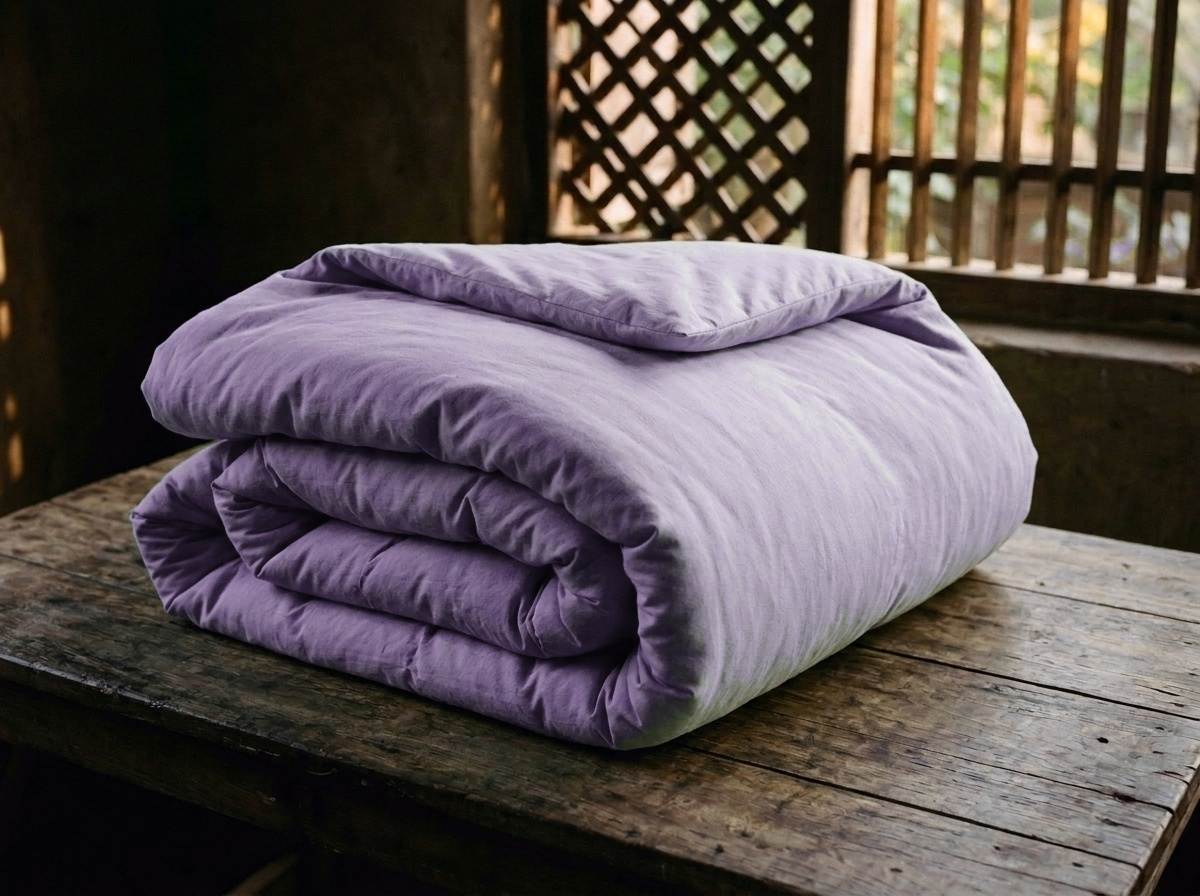
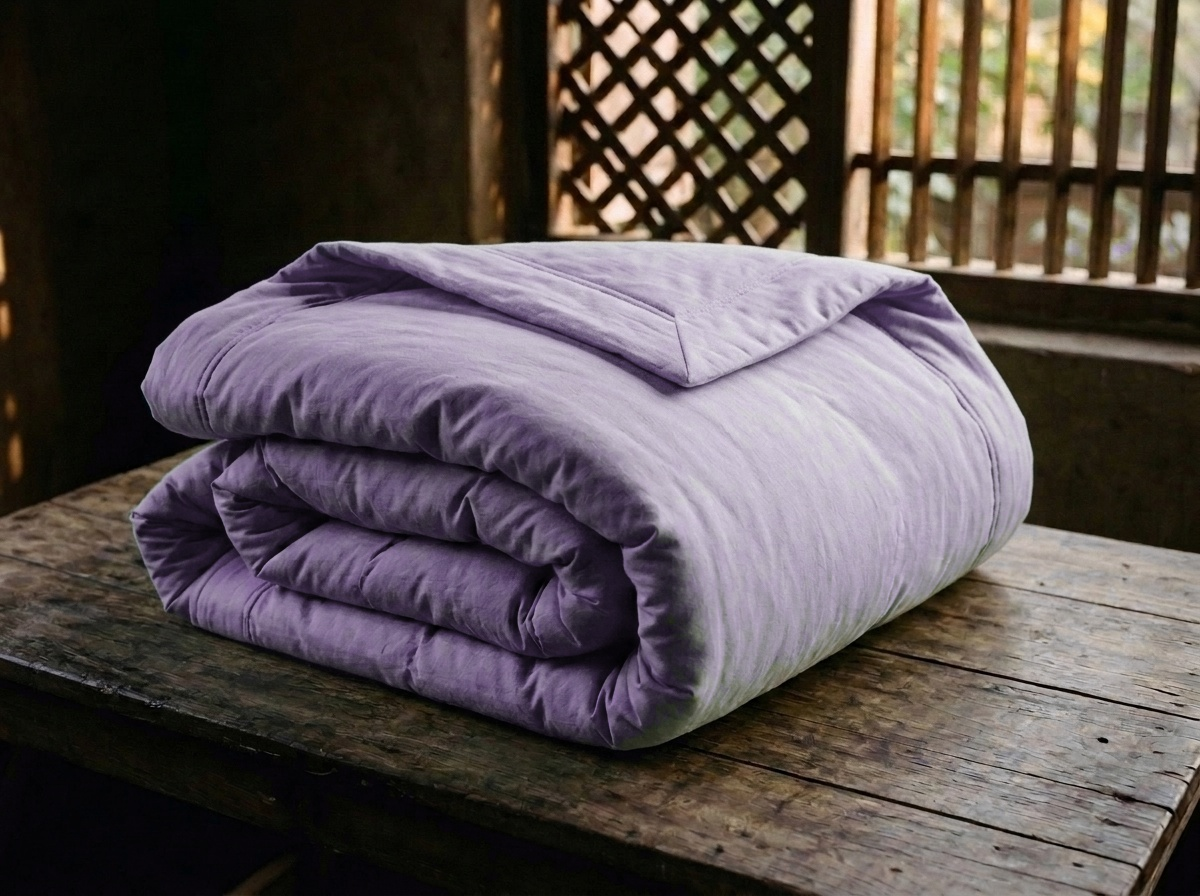
style(quilts): add tailored wide flat topstitched border edge to all 6 Adult Cloud Quilt colorways

Changed region(s): [[0.1233, 0.25, 0.8633, 0.5312], [0.1233, 0.5938, 0.3083, 0.75], [0.8017, 0.5625, 0.8325, 0.625]]

diff --git a/assets/js/main.js b/assets/js/main.js
@@ -438,7 +438,7 @@ function openProductModal(productId) {
 
   const isAdultQuilt = (product.id === 'quilt-heirloom-individual');
   const isInitialPurpleAdult = isAdultQuilt && initialColorway && initialColorway.id === 'lavender';
-  const initialModalImg = isInitialPurpleAdult ? 'assets/images/adult-quilt-solid-lavender.jpg?v=1' : product.image;
+  const initialModalImg = isInitialPurpleAdult ? 'assets/images/adult-quilt-solid-lavender.jpg?v=2' : product.image;
 
   // Purple slow-mo video & solid lavender photos ONLY appear when Pastel Lavender is selected on the Adult Quilt (no clouds!)
   const adultGalleryHTML = isAdultQuilt ? `
@@ -450,8 +450,8 @@ function openProductModal(productId) {
         </span>
         <span class="absolute inset-x-0 bottom-0 bg-black/75 text-[9px] font-mono text-brand-gold text-center py-0.5 uppercase">Slow-Mo</span>
       </button>
-      <button type="button" onclick="setModalMedia('photo', 'assets/images/adult-quilt-solid-lavender.jpg?v=1', this)" class="modal-media-thumb relative rounded-xl overflow-hidden border border-white/15 hover:border-brand-gold/60 h-16 sm:h-20 bg-black transition">
-        <img src="assets/images/adult-quilt-solid-lavender.jpg?v=1" alt="Solid pastel lavender adult quilt folded" class="w-full h-full object-cover">
+      <button type="button" onclick="setModalMedia('photo', 'assets/images/adult-quilt-solid-lavender.jpg?v=2', this)" class="modal-media-thumb relative rounded-xl overflow-hidden border border-white/15 hover:border-brand-gold/60 h-16 sm:h-20 bg-black transition">
+        <img src="assets/images/adult-quilt-solid-lavender.jpg?v=2" alt="Solid pastel lavender adult quilt folded" class="w-full h-full object-cover">
         <span class="absolute inset-x-0 bottom-0 bg-black/75 text-[9px] font-mono text-brand-cream text-center py-0.5 uppercase">Folded</span>
       </button>
       <button type="button" onclick="setModalMedia('photo', 'assets/images/adult-quilt-lavender-rolled.jpg?v=1', this)" class="modal-media-thumb relative rounded-xl overflow-hidden border border-white/15 hover:border-brand-gold/60 h-16 sm:h-20 bg-black transition">
@@ -613,7 +613,7 @@ function selectModalColorway(productId, colorwayId) {
   const cwName = (isDe && cw.name_de) ? cw.name_de : cw.name;
   const cwMotif = (isDe && cw.motif_de) ? cw.motif_de : cw.motif;
 
-  product.image = `${cw.image}?v=1`;
+  product.image = `${cw.image}?v=2`;
   product.badge = isThrow ? `${cw.name} • ${cw.motif} Print` : `${cw.name} • Solid Quilt`;
   if (isDe) {
     product.badge_de = isThrow ? `${cwName} • ${cwMotif}-Druck` : `${cwName} • Steppdecke`;

diff --git a/assets/js/data.js b/assets/js/data.js
@@ -351,7 +351,7 @@ const PRODUCTS = [
     badgeType: "featured",
     rating: 5.0,
     reviewsCount: 21,
-    image: "assets/images/adult-quilt-solid-mint.jpg?v=1",
+    image: "assets/images/adult-quilt-solid-mint.jpg?v=2",
     colorways: ADULT_QUILT_COLORWAYS,
     description: "Master solid pastel adult cloud quilt (140 × 222 cm) filled with 1.4kg of 100% natural Ilavam Panju (silk cotton harvested from Tamizhnad) and encased in an ultra-soft, brushed twill weave with organic cotton yarns, naturally dyed in calming solid pastel (available in all 6 pastel shades: Pastel Misty Blue-Grey, Pastel Lavender, Pastel Blush Pink, Pastel Mint Green, Pastel Peach, and Pastel Butter Yellow — our quilts are 100% solid pastel, completely unprinted). While the handcrafted quilt itself is not separately certified, the organic cotton fabric it is made from is GOTS and OEKO-TEX Standard 100 certified. Finished with 100% eco-friendly plastic-free labels and a handcrafted tote carry bag.",
     ingredients: "Natural Ilavam Panju (1.4kg Silk Cotton harvested from Tamizhnad) Filling + Handcrafted with Twill Weave using Naturally Dyed Organic Cotton Yarns, GOTS & OEKO-TEX Certified Organic Cotton Fabric.",

diff --git a/wholesale.html b/wholesale.html
@@ -832,9 +832,9 @@
   </footer>
 
   <!-- Scripts -->
-  <script src="assets/js/data.js?v=20261127_adult_solid_quilts"></script>
+  <script src="assets/js/data.js?v=20261127_adult_flat_border_v2"></script>
   <script src="assets/js/cart.js"></script>
-  <script src="assets/js/main.js?v=20261127_flagship_modal_v7"></script>
+  <script src="assets/js/main.js?v=20261127_flagship_modal_v8"></script>
   <script>
     document.addEventListener('DOMContentLoaded', () => {
       const tiersGrid = document.getElementById('wholesale-tiers-grid');

diff --git a/shop.html b/shop.html
@@ -1045,9 +1045,9 @@
   </footer>
 
       <!-- Scripts -->
-  <script src="assets/js/data.js?v=20261127_adult_solid_quilts"></script>
+  <script src="assets/js/data.js?v=20261127_adult_flat_border_v2"></script>
   <script src="assets/js/cart.js"></script>
-  <script src="assets/js/main.js?v=20261127_flagship_modal_v7"></script>
+  <script src="assets/js/main.js?v=20261127_flagship_modal_v8"></script>
   <script>
     // Pure 5 Individual Product Categories with Exclusive Hallmarks (NO COMBOS)
     const PRODUCT_HALLMARKS = {

diff --git a/index.html b/index.html
@@ -1178,9 +1178,9 @@
   </footer>
 
   <!-- Scripts -->
-  <script src="assets/js/data.js?v=20261127_adult_solid_quilts"></script>
+  <script src="assets/js/data.js?v=20261127_adult_flat_border_v2"></script>
   <script src="assets/js/cart.js"></script>
-  <script src="assets/js/main.js?v=20261127_flagship_modal_v7"></script>
+  <script src="assets/js/main.js?v=20261127_flagship_modal_v8"></script>
   <script>
     document.addEventListener('DOMContentLoaded', () => {
 
